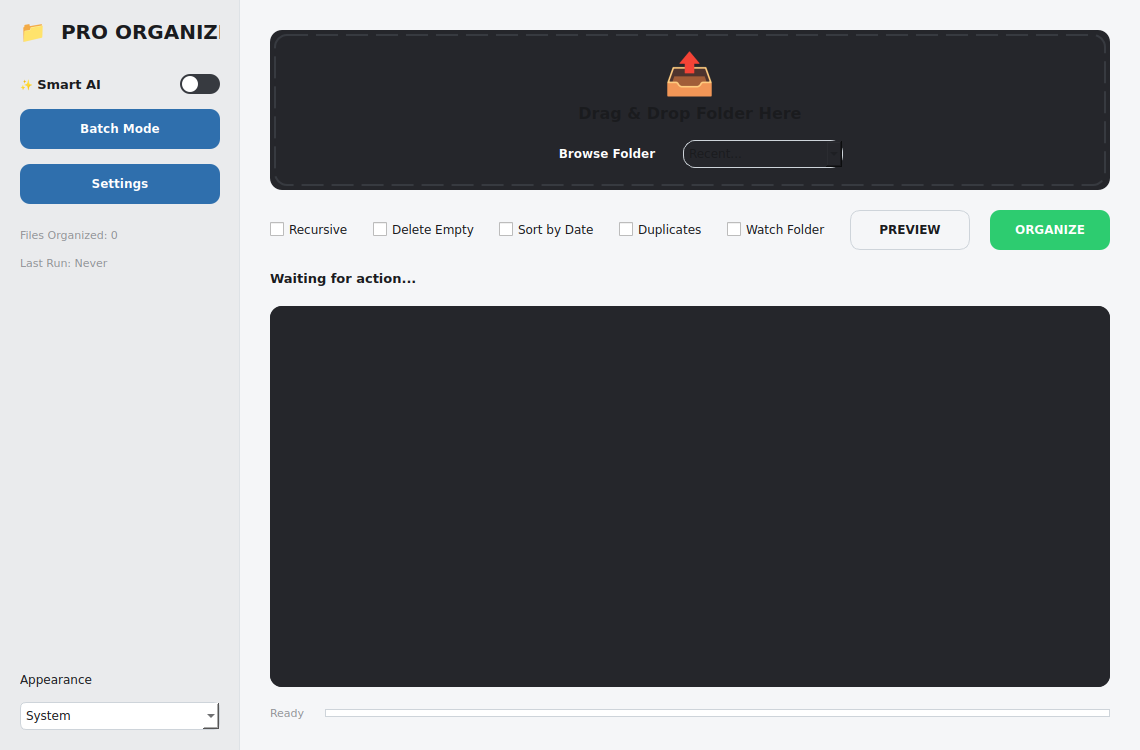
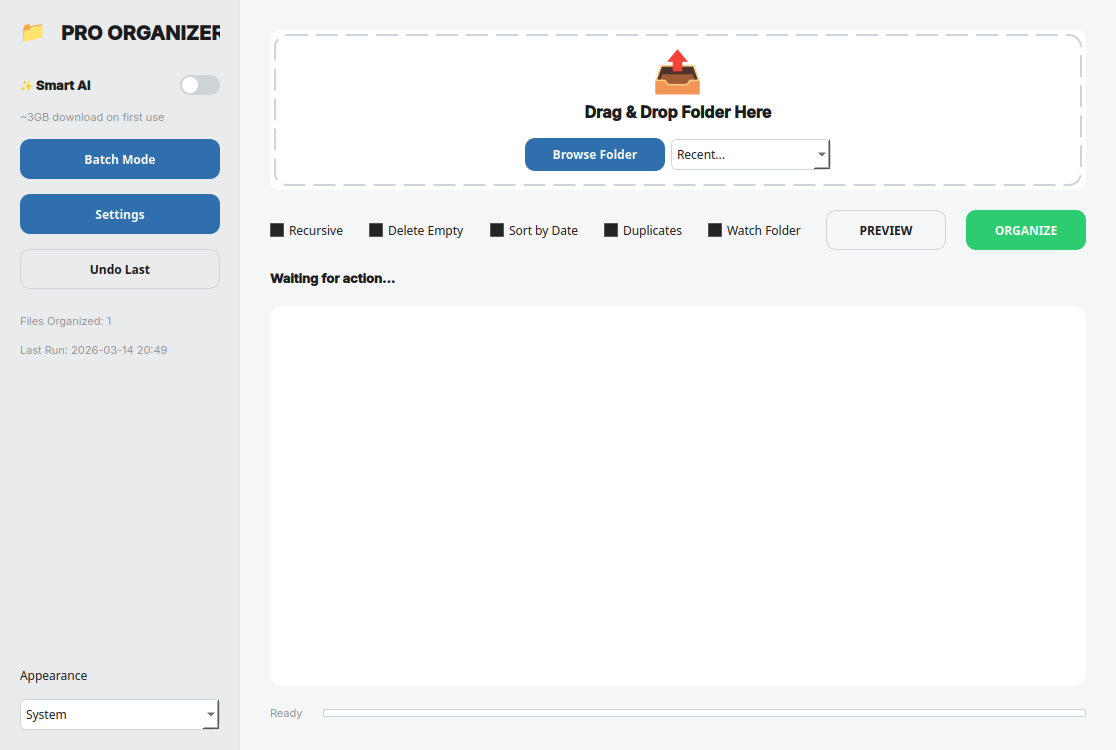
feat(ui): fix theme background rendering issues
The changes address background rendering problems in the UI by:
- Adding WA_StyledBackground attribute to main dashboard and results container widgets to ensure proper theme styling
- Adding CSS rules to make scroll viewport transparent and set results content background color
- Updating UI test mocks to include WA_StyledBackground attribute
- Removing screenshot verification script and related verification images as they're no longer needed

These changes ensure consistent theme application across all UI components and resolve background color inconsistencies.

diff --git a/src/pro_file_organizer/ui/main_window.py b/src/pro_file_organizer/ui/main_window.py
@@ -295,6 +295,7 @@ class OrganizerApp(QMainWindow):
         # --- Main Dashboard ---
         self.main_area = QWidget()
         self.main_area.setObjectName("main_dashboard")
+        self.main_area.setAttribute(Qt.WidgetAttribute.WA_StyledBackground)
         main_area_layout = QVBoxLayout(self.main_area)
         main_area_layout.setContentsMargins(30, 30, 30, 30)
         main_area_layout.setSpacing(20)
@@ -395,6 +396,8 @@ class OrganizerApp(QMainWindow):
         self.results_scroll.setObjectName("card")
 
         self.results_container = QWidget()
+        self.results_container.setObjectName("results_content")
+        self.results_container.setAttribute(Qt.WidgetAttribute.WA_StyledBackground)
         self.results_layout = QVBoxLayout(self.results_container)
         self.results_layout.setContentsMargins(10, 10, 10, 10)
         self.results_layout.setSpacing(5)

diff --git a/src/pro_file_organizer/ui/themes/themes.py b/src/pro_file_organizer/ui/themes/themes.py
@@ -170,6 +170,15 @@ def build_stylesheet(colors: Dict[str, str]) -> str:
         border-radius: {RADII["standard"]}px;
     }}
 
+    /* Ensure scroll viewport is transparent to show card background */
+    QScrollArea#card > QWidget > QWidget {{
+        background-color: transparent;
+    }}
+
+    QWidget#results_content {{
+        background-color: {colors["bg_card"]};
+    }}
+
     QScrollBar:vertical {{
         border: none;
         background: {colors["bg_main"]};

diff --git a/tests/ui_test_utils.py b/tests/ui_test_utils.py
@@ -178,6 +178,8 @@ def get_pyside_mocks():
     mock_qtcore.Qt.Orientation.Horizontal = 1
     mock_qtcore.Qt.CheckState = MockModule()
     mock_qtcore.Qt.CheckState.Checked = 2
+    mock_qtcore.Qt.WidgetAttribute = MockModule()
+    mock_qtcore.Qt.WidgetAttribute.WA_StyledBackground = 1
     mock_qtcore.Qt.MouseButton = MockModule()
     mock_qtcore.Qt.MouseButton.LeftButton = 1
     mock_qtcore.Qt.GlobalColor = MockModule()
